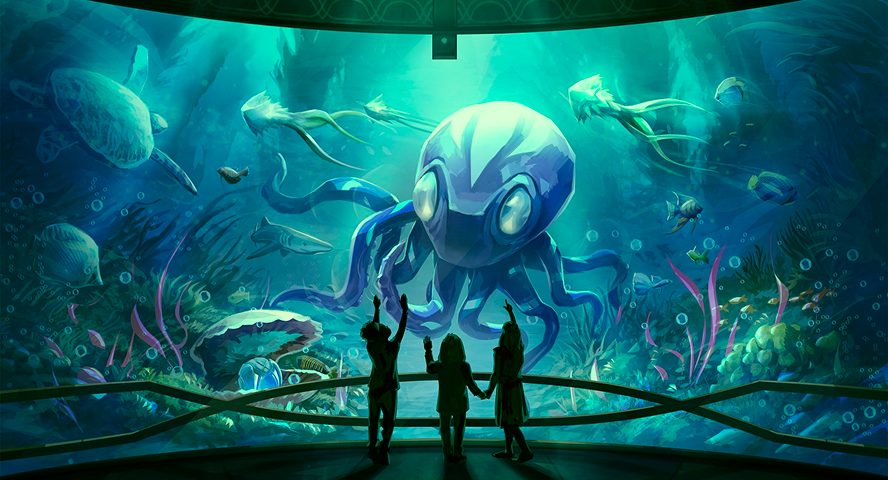
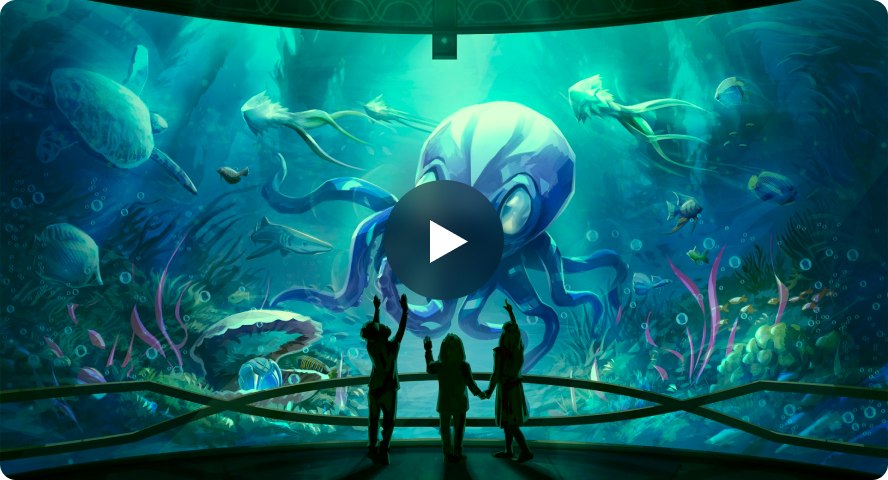
set carousel indicators

diff --git a/index.html b/index.html
@@ -20,7 +20,7 @@
 
 <body class="bg-black">
     <header class="bg-image">
-        <nav class="bg-river-styx py-8">
+        <nav class="bg-river-styx">
             <div class="container max-w-1440">
                 <div
                     class="d-flex justify-content-between w-100 nav-bar mx-auto bg-light-black justify-content-center align-items-center">
@@ -29,8 +29,8 @@
                             <img class="header-logo-image" src="./assets/image/svg/header-logo.svg" alt="logo" />
                         </a>
                         <div class="dropdown-box">
-                            <button class="btn border-0 dropdown-toggle" type="button" data-bs-toggle="dropdown"
-                                aria-expanded="false">
+                            <button class="dropdown-btn border-0 dropdown-toggle" type="button"
+                                data-bs-toggle="dropdown" aria-expanded="false">
                                 <img src="./assets/image/svg/game-remote-svg.svg" alt="dropdown" />
                             </button>
                             <ul class="dropdown-menu dropdown-menu-dark mb-0">
@@ -80,70 +80,6 @@
                 </div>
             </div>
         </nav>
-        <!-- <div id="carouselExampleDark" class="carousel carousel-dark slide">
-            <div class="carousel-indicators">
-                <button type="button" data-bs-target="#carouselExampleDark" data-bs-slide-to="0" class="active"
-                    aria-current="true" aria-label="Slide 1"></button>
-                <button type="button" data-bs-target="#carouselExampleDark" data-bs-slide-to="1"
-                    aria-label="Slide 2"></button>
-            </div>
-            <div class="carousel-inner">
-                <div class="carousel-item active bg-image" data-bs-interval="10000">
-                    <img src="./assets/image/png/header-bg-img.png" class="d-block w-100" alt="header-bg-img">
-                    <div class="carousel-caption">
-                        <div class="heading">
-                            <img src="./assets/image/svg/line-img-1.svg" alt="line-img-1">
-                            <div class="d-flex align-items-center justify-content-center">
-                                <h1 class="font-primary carousel-heading fw-bold fs-xl lh-86 text-center text-white max-w-835 mb-0">
-                                    CHALLENGE INCOMING</h1>
-                            </div>
-                            <p class="font-primary fw-normal fs-6 lh-16 text-white text-center mt-40">PLAY GAMES. WIN
-                                PRIZES
-                            </p>
-                            <div class="d-flex justify-content-center gap-4 mt-40">
-                                <img src="./assets/image/svg/btn-left-img.svg" alt="btn-left-img" class="btn-left-img">
-                                <button
-                                    class="font-primary fw-medium fs-6 lh-16 text-black bg-lime-yellow btn-3 trasform-translateY-15">COMPLETE
-                                    NOW</button>
-                                <img src="./assets/image/svg/btn-rightimg.svg" alt="btn-rightimg" class="btn-right-img">
-                            </div>
-                        </div>
-                    </div>
-                </div>
-                <div class="carousel-item bg-image" data-bs-interval="2000">
-                    <img src="./assets/image/png/header-bg-img.png" class="d-block w-100" alt="header-bg-img">
-                    <div class="carousel-caption">
-                        <div class="heading">
-                            <img src="./assets/image/svg/line-img-1.svg" alt="line-img-1">
-                            <div class="d-flex justify-content-center">
-                                <h1 class="font-primary fw-bold fs-xl lh-86 text-center text-white max-w-835 mb-0">
-                                    CHALLENGE INCOMING</h1>
-                            </div>
-                            <p class="font-primary fw-normal fs-6 lh-16 text-white text-center mt-40">PLAY GAMES. WIN
-                                PRIZES
-                            </p>
-                            <div class="d-flex justify-content-center gap-4 mt-40">
-                                <img src="./assets/image/svg/btn-left-img.svg" alt="btn-left-img" class="btn-left-img">
-                                <button
-                                    class="font-primary fw-medium fs-6 lh-16 text-black bg-lime-yellow btn-3 trasform-translateY-15">COMPLETE
-                                    NOW</button>
-                                <img src="./assets/image/svg/btn-rightimg.svg" alt="btn-rightimg" class="btn-right-img">
-                            </div>
-                        </div>
-                    </div>
-                </div>
-            </div>
-            <button class="carousel-control-prev" type="button" data-bs-target="#carouselExampleDark"
-                data-bs-slide="prev">
-                <span class="carousel-control-prev-icon" aria-hidden="true"></span>
-                <span class="visually-hidden">Previous</span>
-            </button>
-            <button class="carousel-control-next" type="button" data-bs-target="#carouselExampleDark"
-                data-bs-slide="next">
-                <span class="carousel-control-next-icon" aria-hidden="true"></span>
-                <span class="visually-hidden">Next</span>
-            </button>
-        </div> -->
         <div>
             <div id="carouselExampleCaptions" class="carousel slide">
                 <div class="carousel-indicators">
@@ -258,39 +194,33 @@
         </div>
     </section>
     <!--**** section-3 ****-->
-    <section>
-        <div class="bg-image-2">
-            <div class="container max-w-1440 mt-181 mb-199 position-relative">
+    <section class="bg-image-2 mt-96">
+        <div class="container max-w-1440 pt-1 81 pb-1 99 position-relative">
+            <div class="d-flex justify-content-center">
                 <img src="./assets/image/png/section-3-top-img.svg" alt="section-3-top-img" class="section-3-top-img">
-                <div class="d-flex justify-content-center mt-141">
-                    <h2 class="font-primary fw-bold fs-lg lh-36 text-center color-lime-yellow max-w-432 mb-0">THE GRIND
-                        <br><span class="text-white">STARTS NOW</span>
-                    </h2>
-                </div>
-                <div class="d-flex justify-content-center">
-                    <img src="./assets/image/png/section-3-line-img.png" alt="">
-                </div>
-                <div class="d-flex justify-content-center">
-                    <!-- <iframe class="video" width="888" height="480"
-                        src="https://www.youtube.com/embed/-G7bJVAIiEI?si=gA2RB5CIgQKQ8kQp" title="YouTube video player"
-                        allow="accelerometer; autoplay; clipboard-write; encrypted-media; gyroscope; picture-in-picture; web-share"
-                        referrerpolicy="strict-origin-when-cross-origin" allowfullscreen></iframe> -->
-                    <!-- <video poster="./assets/image/png/thumbnials.png" width="888" height="480" controls
-                        src="https://www.youtube.com/embed/4WjtQjPQGIs?si=qmyCen1aVWJ5ow5W" title="YouTube video player"
-                        frameborder="0"
-                        allow="accelerometer; autoplay; clipboard-write; encrypted-media; gyroscope; picture-in-picture; web-share"
-                        referrerpolicy="strict-origin-when-cross-origin" allowfullscreen>
-                    </video> -->
-                </div>
-                <div class="d-flex justify-content-center mt-5">
-                    <button class="font-primary fw-medium fs-6 lh-16 text-black bg-lime-yellow compete-btn">COMPETE
-                        NOW</button>
-                </div>
+            </div>
+            <div class="d-flex justify-content-center">
+                <h2 class="font-primary fw-bold fs-lg lh-36 text-center color-lime-yellow max-w-432 mb-0">THE GRIND
+                    <br><span class="text-white">STARTS NOW</span>
+                </h2>
+            </div>
+            <div class="d-flex justify-content-center">
+                <img src="./assets/image/png/section-3-line-img.png" alt="">
+            </div>
+            <div class="d-flex justify-content-center">
+                <iframe class="video" width="888" height="480"
+                    src="https://www.youtube.com/embed/4WjtQjPQGIs?si=qmyCen1aVWJ5ow5W" title="YouTube video player"
+                    allow="accelerometer; autoplay; clipboard-write; encrypted-media; gyroscope; picture-in-picture; web-share"
+                    referrerpolicy="strict-origin-when-cross-origin" allowfullscreen></iframe>
+            </div>
+            <div class="d-flex justify-content-center mt-5">
+                <button class="font-primary fw-medium fs-6 lh-16 text-black bg-lime-yellow compete-btn">COMPETE
+                    NOW</button>
             </div>
         </div>
     </section>
     <!--**** section-4 ****-->
-    <section>
+    <section class="mt-96">
         <div class="container max-w-1344">
             <div class="bg-image-3">
                 <img src="./assets/image/png/section-4-img-1.png" alt="section-4-img-1" class="mt-40 section-4-img">
@@ -454,7 +384,7 @@
             <div class="row">
                 <div class="col-12 col-lg-6 mb-4">
                     <p class="font-primary fw-normal fs-6 lh-16 text-white mb-4">Stay Updated</p>
-                    <div class="d-flex align-items-center gap-2">
+                    <a href="#" class="d-flex align-items-center gap-2">
                         <input type="text" placeholder="Your e-mail" class="w-100 email">
                         <div class="box-3 bg-lime-yellow">
                             <svg width="16" height="16" viewBox="0 0 16 16" fill="none"
@@ -463,7 +393,7 @@
                                     stroke="black" stroke-width="2.5" stroke-linecap="square" stroke-linejoin="round" />
                             </svg>
                         </div>
-                    </div>
+                    </a>
                     <div class="d-flex align-items-center gap-4 mt-4">
                         <div class="icon">
                             <a href="#"><img src="./assets/image/svg/message-svg.svg" alt="message-svg"></a>

diff --git a/assets/css/style.css b/assets/css/style.css
@@ -72,11 +72,6 @@
     padding-left: 8px;
 }
 
-.py-8 {
-    padding-top: 8px;
-    padding-bottom: 8px;
-}
-
 .pl-24 {
     padding-left: 24px;
 }
@@ -162,12 +157,12 @@
     margin-top: 164px;
 }
 
-.mt-181 {
-    margin-top: 181px;
+.pt-181 {
+    padding-top: 181px;
 }
 
-.mb-199 {
-    margin-bottom: 199px;
+.pb-199 {
+    padding-bottom: 199px;
 }
 
 /***** opacity *****/
@@ -244,6 +239,11 @@
     z-index: 5 !important;
 }
 
+.dropdown-btn {
+    padding: 18px 24px;
+    background-color: var(--bg-river-styx);
+}
+
 .dropdown-box {
     border-top: none !important;
     border-bottom: none !important;
@@ -266,13 +266,15 @@
 .carousel-indicators [data-bs-target] {
     width: 48px !important;
     height: 4px !important;
-    border-radius: 24px !important;
-    background: var(--bg-river-styx);
 }
 
 .carousel-indicators .active {
     background-color: var(--bg-lime-yellow) !important;
     opacity: 100% !important;
+}
+
+.carousel-indicators {
+    transform: translateY(-281px);
 }
 
 .hero-content {
@@ -359,7 +361,6 @@
 
 .section-3-top-img {
     top: -15%;
-    left: 47%;
     position: absolute;
 }
 
@@ -536,6 +537,14 @@ input {
     }
 }
 
+@media (max-width:777.98px) {
+
+    .btn-left-img,
+    .btn-right-img {
+        display: none;
+    }
+}
+
 @media (max-width:767.98px) {
     .ml-24 {
         margin-left: 0px;
@@ -543,6 +552,10 @@ input {
 
     .video {
         width: 100%;
+    }
+
+    .lh-86 {
+        line-height: normal;
     }
 }
 
@@ -563,10 +576,5 @@ input {
 
     .bg-color {
         width: 100%;
-    }
-
-    .btn-left-img,
-    .btn-right-img {
-        display: none;
     }
 }

diff --git a/assets/css/root.css b/assets/css/root.css
@@ -80,15 +80,14 @@
 
 @media (max-width:767.98px) {
     :root {
-        --fs-xl: 60px;
-        --lh-86: normal;
+        --fs-xl: 70px;
     }
 }
 
 @media (max-width:575.98px) {
     :root {
-        --fs-xl: 48px;
-        --lh-86: normal;
+        --fs-xl: 53px;
+        --fs-lg: 27px;
     }
 
     .footer-tag {
